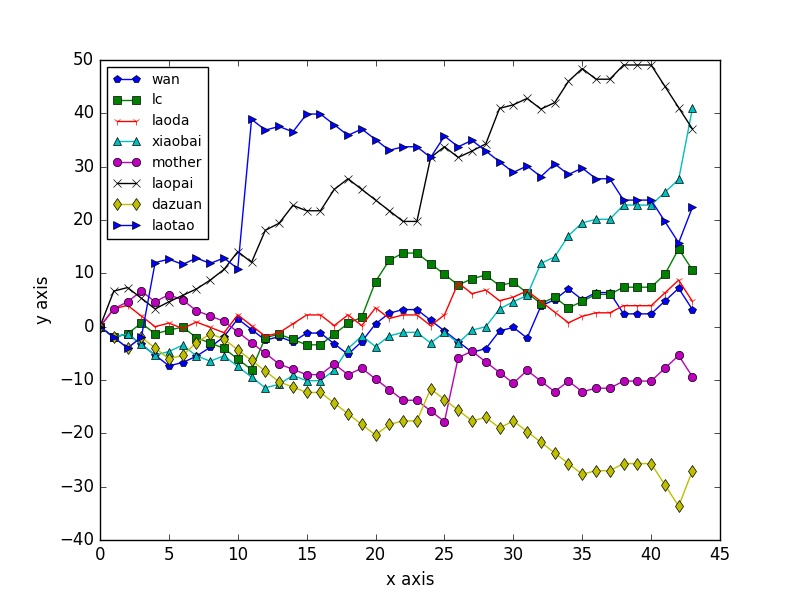
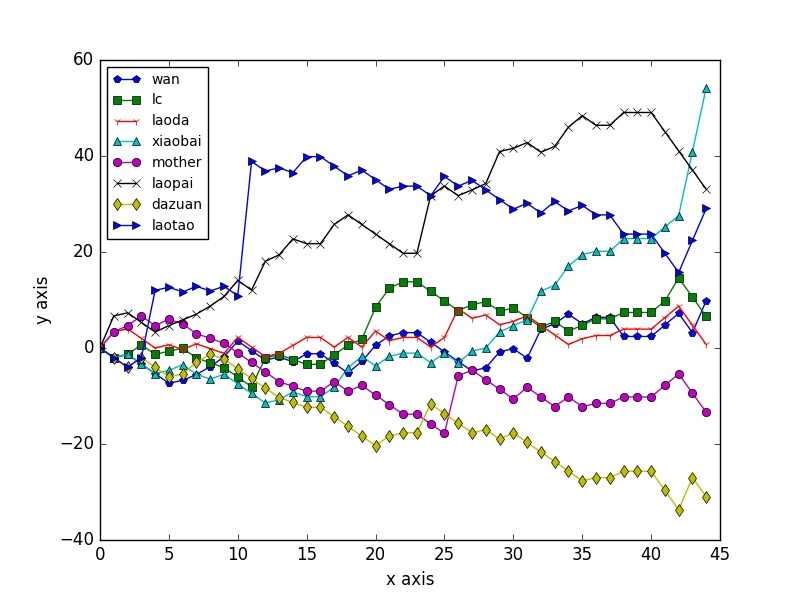
update

diff --git a/README.md b/README.md
@@ -1,23 +1,43 @@
 # E cup guess competition report
 ## real-time ranking
-2016-06-28 01:53:29
+2016-06-28 11:20:54
 
 |rank|name|score|win|loss|
 |:---:|:---:|:---:|:---:|:---:|
-|1|xiaobai|40.93|56%|27%|
-|2|laopai|37.07|50%|33%|
-|3|laotao|22.40|34%|49%|
-|4|lc|10.60|47%|36%|
-|5|laoda|4.73|45%|38%|
-|6|wan|3.20|43%|40%|
-|7|mother|-9.40|32%|51%|
-|8|dazuan|-27.00|25%|58%|
+|1|xiaobai|54.27|58%|25%|
+|2|laopai|33.07|50%|33%|
+|3|laotao|29.07|36%|47%|
+|4|wan|9.87|45%|38%|
+|5|lc|6.60|47%|36%|
+|6|laoda|0.73|45%|38%|
+|7|mother|-13.40|32%|51%|
+|8|dazuan|-31.00|25%|58%|
 
 ## Pond
-536.47
+529.80
 
 ## History
 ![image](https://github.com/Anserw/E_Cup/blob/master/plot.jpg)
+### 2016062803 England 1 : 2 Iceland
+- handicap: -1
+- scorer: laotao
+- owners:
+ - England: mother
+ - Iceland: xiaobai
+
+
+|name|guess|score change|
+|:---:|:---:|:---:|
+|wan|Iceland|6.67|
+|lc|England|-4.00|
+|laoda|England|-4.00|
+|xiaobai|Iceland|13.33|
+|mother|England|-4.00|
+|laopai|England|-4.00|
+|dazuan|England|-4.00|
+|laotao|Iceland|6.67|
+|Pond|..|-6.67|
+
 ### 2016062800 Italy 2 : 0 Spain
 - handicap: 0.5
 - scorer: laotao
